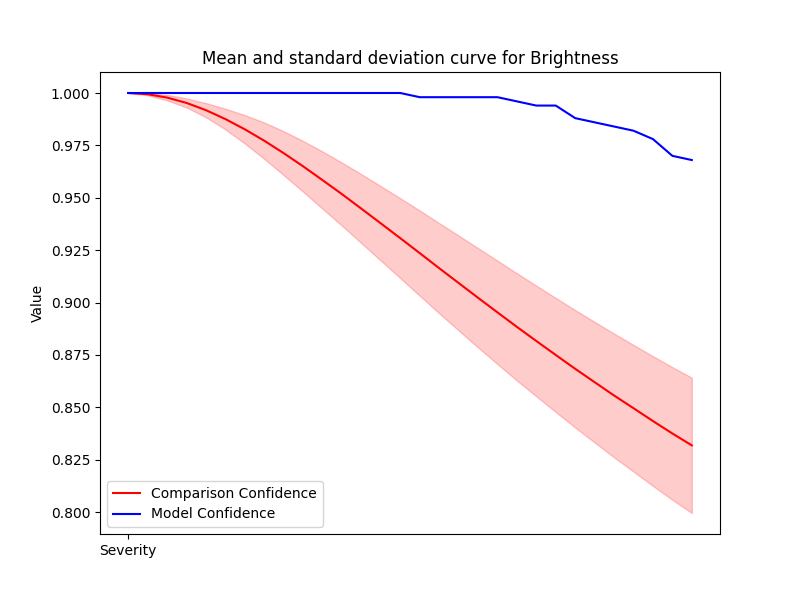
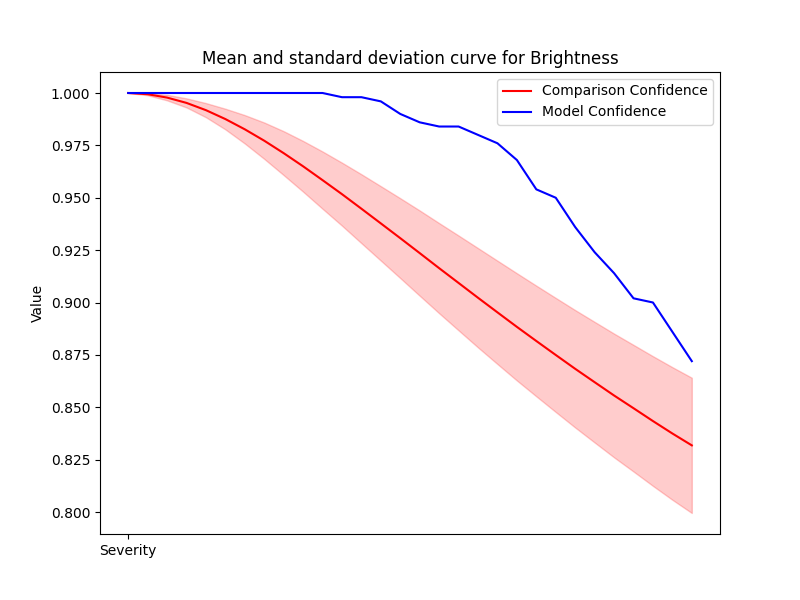
experimented w brightness

diff --git a/utils/plot_csv.py b/utils/plot_csv.py
@@ -20,10 +20,7 @@ def plot_mean_and_accuracy(file_paths):
     # for k, values in data.items():
     #     plt.plot(values["Severity"], values["Mean"], label=f"k={k}")
     plt.plot(data[1]["Severity"], data[1]["Mean"], label="NCC", color="red")
-    plt.plot(data[2]["Severity"], data[2]["Mean"], label="PSNR-HVSM", color="blue")
-    plt.plot(data[3]["Severity"], data[3]["Mean"], label="SSIM", color="green")
-    plt.plot(data[4]["Severity"], data[4]["Mean"], label="VIF", color="orange")
-    plt.plot(data[5]["Severity"], data[5]["Mean"], label="NCC_new", color="purple")
+    plt.plot(data[2]["Severity"], data[2]["Mean"], label="SSIM", color="blue")
 
     plt.plot(severity, accuracy, label="Model Accuracy", linestyle="--", color="black")
 
@@ -43,10 +40,7 @@ if __name__ == "__main__":
     #     '/home/ekagra/Documents/GitHub/MasterArbeit/non_linear_mapping_data/TranslateX_k4_results.csv'
     # ]
     file_paths = [
-        "/home/ekagra/Documents/GitHub/MasterArbeit/non_linear_mapping_data/Brightness/Brightness_ncc_results.csv",
-        "/home/ekagra/Documents/GitHub/MasterArbeit/non_linear_mapping_data/Brightness/Brightness_psnrhvsm_results.csv",
-        "/home/ekagra/Documents/GitHub/MasterArbeit/non_linear_mapping_data/Brightness/Brightness_ssim_results.csv",
-        "/home/ekagra/Documents/GitHub/MasterArbeit/non_linear_mapping_data/Brightness/Brightness_vif_results.csv",
-        "/home/ekagra/Documents/GitHub/MasterArbeit/non_linear_mapping_data/Brightness/Brightness_results.csv"
+        "/home/ekagra/Documents/GitHub/MasterArbeit/non_linear_mapping_data/Solarize/Solarize_results.csv",
+        "/home/ekagra/Documents/GitHub/MasterArbeit/non_linear_mapping_data/Solarize/Solarize_ssim_results.csv"
     ]
     plot_mean_and_accuracy(file_paths)

diff --git a/augmentations/trivial_augment.py b/augmentations/trivial_augment.py
@@ -60,7 +60,7 @@ class CustomTrivialAugmentWide:
             "AutoContrast",
             "Posterize",
             "Solarize",
-            "Color",
+            # "Color",
             "Contrast",
             "Brightness",
             "Sharpness",
@@ -92,12 +92,12 @@ class CustomTrivialAugmentWide:
             )
             k = 3
             confidence_aa = 1 - (1 - self.chance) * (1 - visibility) ** k
-        elif augmentation_type == "Rotate":
+        elif augmentation_type == ["Rotate", "Color"]:
             confidence_aa = normalized_cross_correlation(im, augment_im)
         elif augmentation_type in pixelwise_augs:
             # confidence_aa = psnr_operation(im, augment_im)
-            # confidence_aa = ssim_operation(im, augment_im)
-            confidence_aa = normalized_cross_correlation(im, augment_im)
+            confidence_aa = ssim_operation(im, augment_im)
+            # confidence_aa = normalized_cross_correlation(im, augment_im)
             # confidence_aa = compute_vif(im, augment_im)
         # print(f"\nAugmentation info: {augment_info}\tconf: {confidence_aa}\n")
         return augment_im, confidence_aa

diff --git a/utils/plot_non_linear_curve.py b/utils/plot_non_linear_curve.py
@@ -14,7 +14,7 @@ def save_to_csv(mean_list, std_list, accuracy_list, augmentation_type):
     if not os.path.exists(folder_name):
         os.makedirs(folder_name)
 
-    filename = os.path.join(folder_name, f'{augmentation_type}_results.csv')
+    filename = os.path.join(folder_name, f'{augmentation_type}_psnrhvsm_results.csv')
 
     with open(filename, mode="w", newline="") as file:
         writer = csv.writer(file)
@@ -29,7 +29,7 @@ def plot_mean_std(mean, std, model_confidences, augmentation_type=None):
     folder_name = f'/home/ekagra/Documents/GitHub/MasterArbeit/non_linear_mapping_data/{augmentation_type}'
     if not os.path.exists(folder_name):
         os.makedirs(folder_name)
-    filename = os.path.join(folder_name, f'{augmentation_type}_results.png')
+    filename = os.path.join(folder_name, f'{augmentation_type}_psnrhvsm_results.png')
 
     x = range(1, len(mean) + 1)
     plt.figure(figsize=(8, 6))

diff --git a/non_linear_mapping.py b/non_linear_mapping.py
@@ -81,7 +81,7 @@ if __name__ == "__main__":
         # "TranslateX",
         # "TranslateY",
         # "Rotate",
-        # "Brightness",
+        "Brightness",
         "Color",
         "Contrast",
         "Sharpness",
